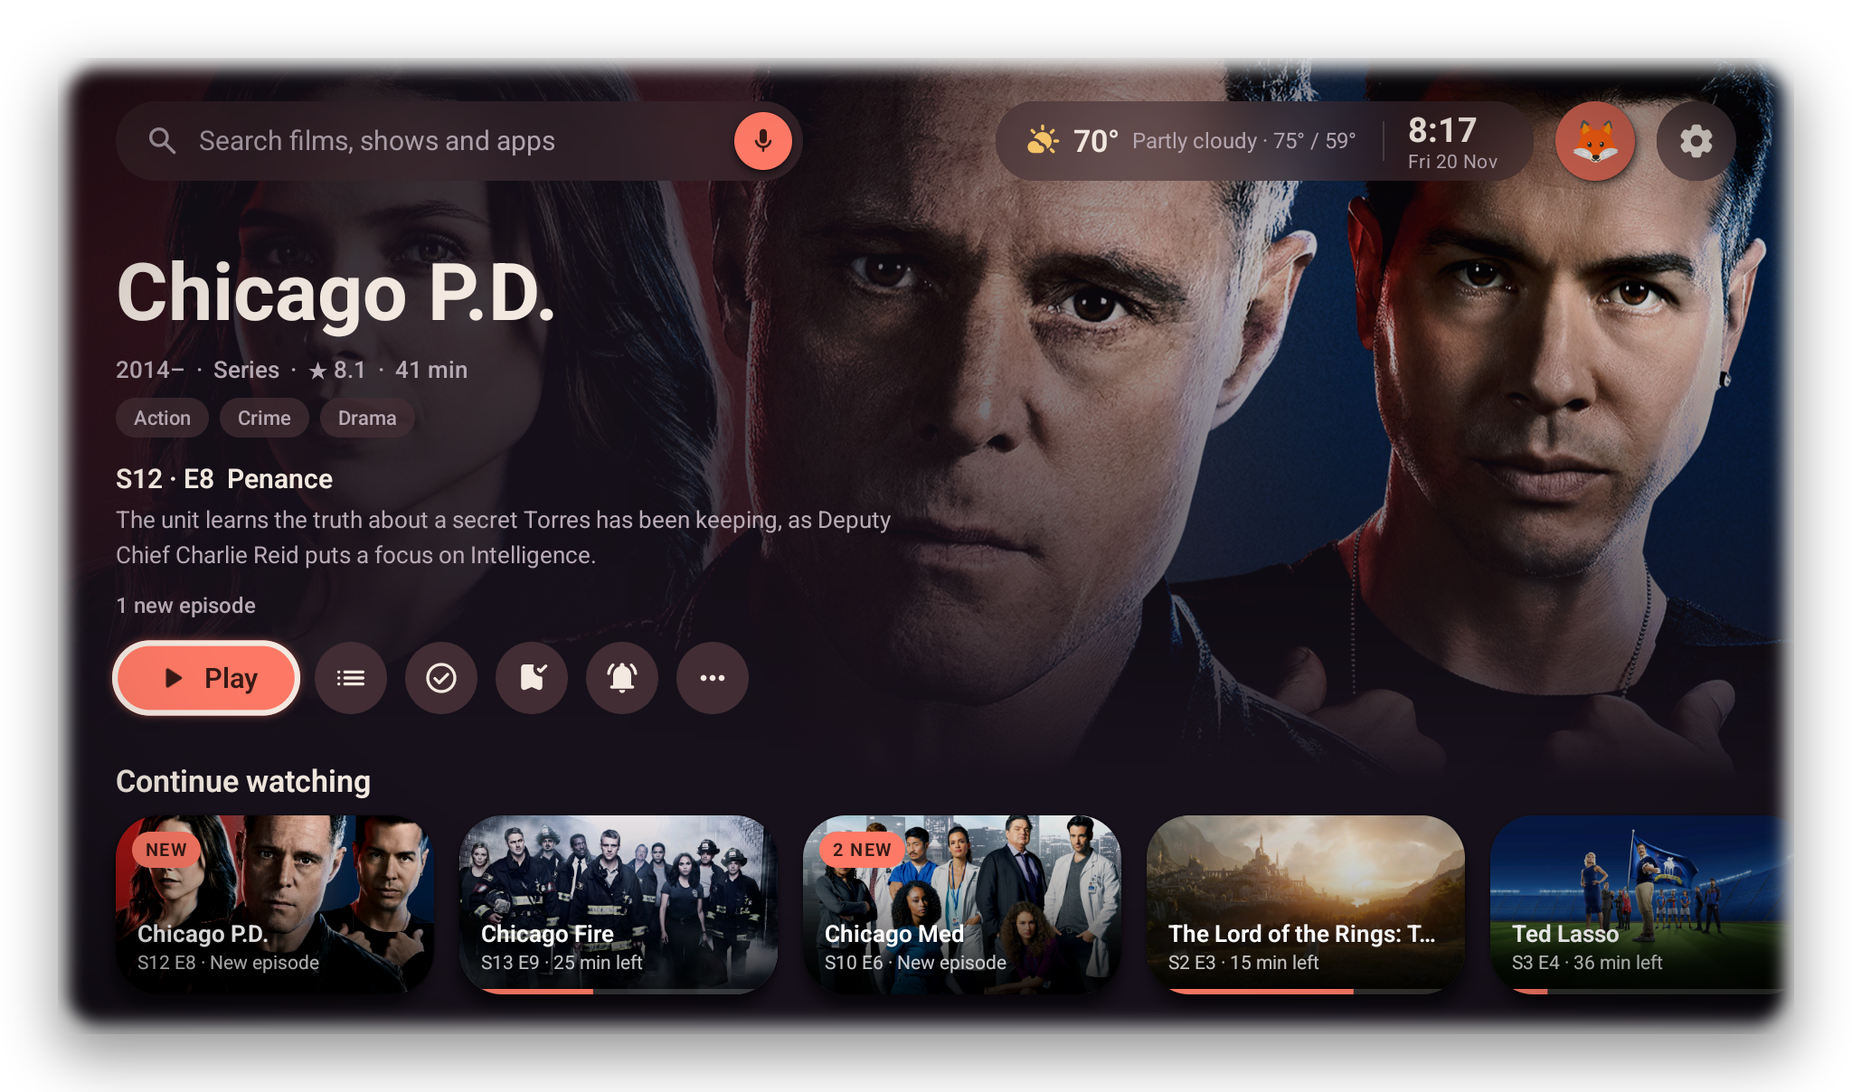
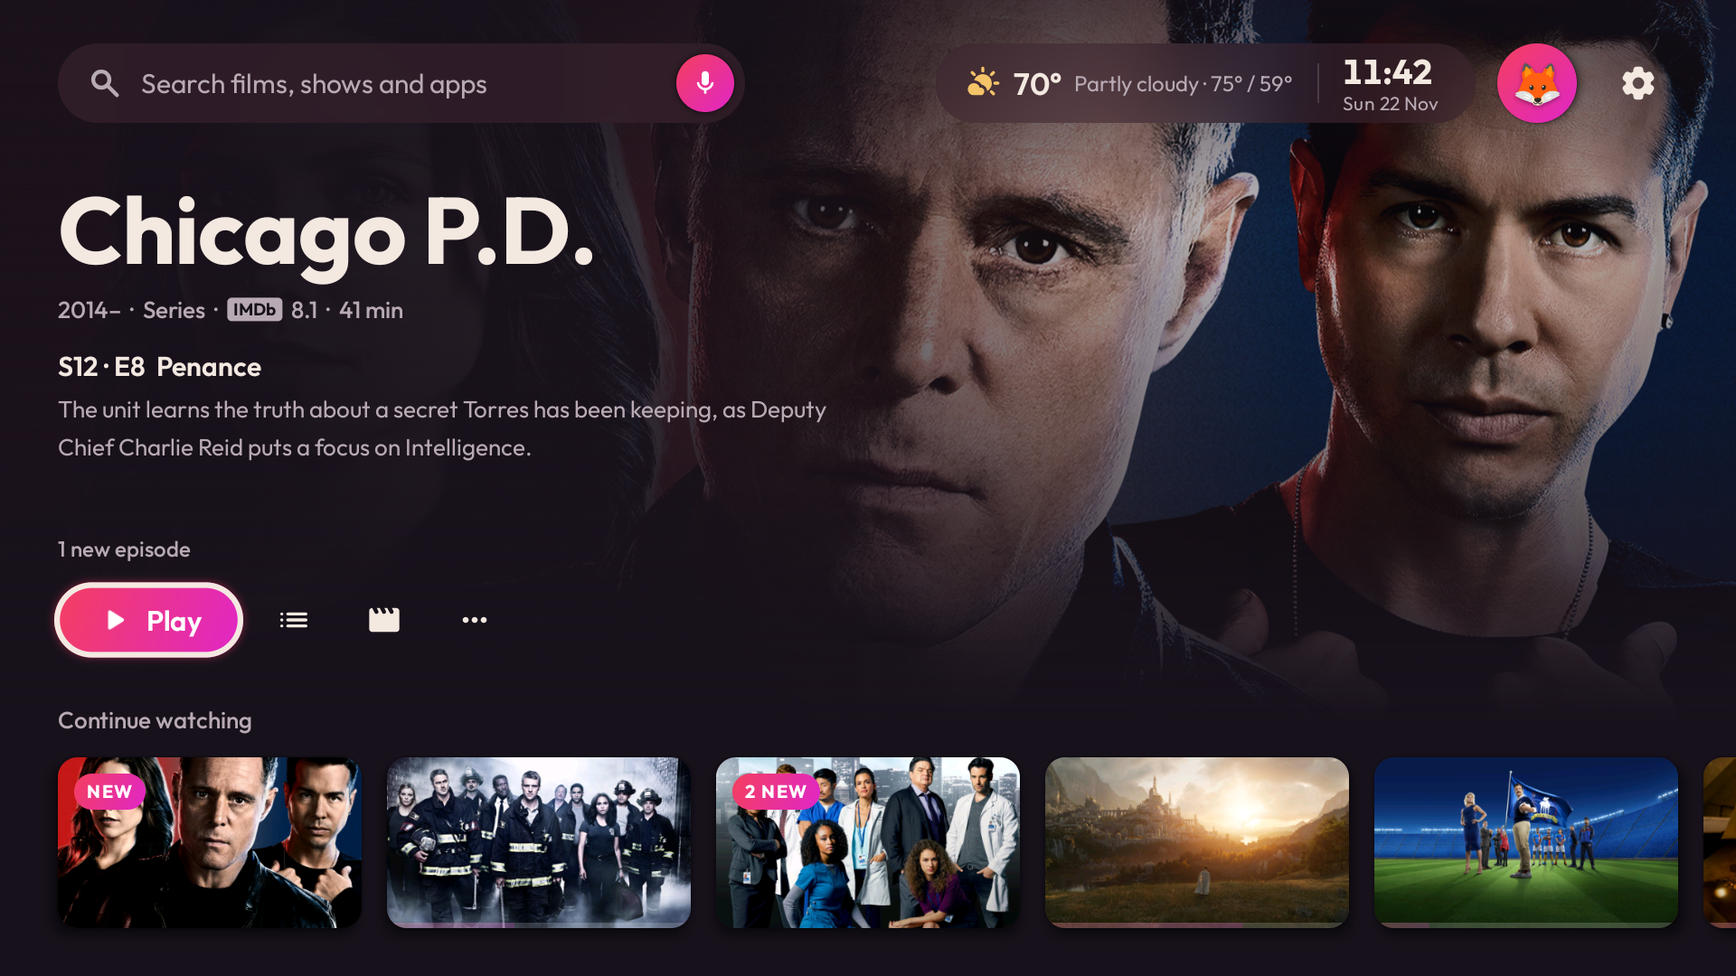
Update README and screenshots for 0.2.0, improve Demo Mode
- New README screenshots of Home, the library, search, profiles, Watch With,
  App Rows, Updates, the quick panel and setup, plus sections on Jellyfin
  and Plex, Kids profiles, Now Playing, App Rows and in-app updates.
- Demo Mode shows a sample library, treats the watch app as installed,
  hides phone apps and sorts sample apps into the ready-made rows.
- The Library screen no longer takes focus itself, which greyed it out
  and stranded the arrow keys when opened from See all with OK.

diff --git a/app/src/main/java/com/robbydock/scene/Demo.kt b/app/src/main/java/com/robbydock/scene/Demo.kt
@@ -18,16 +18,24 @@ object Demo {
 
     fun isSample(pkg: String) = pkg.startsWith(PREFIX)
 
+    /** Installed apps Demo Mode keeps. Phone apps such as Dialer or Camera would look wrong on a TV. */
+    private val realApps = setOf(
+        Config.STREMIO, "com.stremio.tv.boot", "org.jellyfin.androidtv", "com.plexapp.android",
+        "com.google.android.youtube.tv", "com.google.android.youtube", "com.android.vending",
+    )
+
+    fun keepsReal(pkg: String) = pkg in realApps
+
     fun start() { on = true }
     fun stop() { on = false }
 
-    private class SampleApp(val name: String, val icon: Int, val color: Int)
+    private class SampleApp(val name: String, val icon: Int, val color: Int, val row: String = "watch")
 
     private val sampleApps = listOf(
         SampleApp("Netflix", R.drawable.ic_movie, 0xFFE5484D.toInt()),
         SampleApp("ESPN", R.drawable.ic_star, 0xFF2E7DF6.toInt()),
         SampleApp("CNN", R.drawable.ic_language, 0xFF3A4A5E.toInt()),
-        SampleApp("Spotify", R.drawable.ic_volume_up, 0xFFE0408A.toInt()),
+        SampleApp("Spotify", R.drawable.ic_volume_up, 0xFFE0408A.toInt(), "listen"),
         SampleApp("Crunchyroll", R.drawable.ic_mic, 0xFF8E4EC6.toInt()),
         SampleApp("Plex", R.drawable.ic_wallpaper, 0xFF12A594.toInt()),
         SampleApp("Disney+", R.drawable.ic_child_care, 0xFFF5A623.toInt()),
@@ -39,6 +47,9 @@ object Demo {
         SampleApp("Paramount+", R.drawable.ic_bedtime, 0xFF34407A.toInt()),
         SampleApp("Tubi", R.drawable.ic_visibility, 0xFF46505A.toInt()),
     )
+
+    /** The ready-made row a sample app belongs in. */
+    fun row(pkg: String): String = sampleApps.getOrNull(pkg.removePrefix(PREFIX).toIntOrNull() ?: -1)?.row ?: ""
 
     /** Icon from files/demo-icons/<name>.png when present, for example "primevideo.png". */
     private fun iconFile(ctx: Context, name: String, size: Int): Bitmap? {
@@ -74,11 +85,12 @@ object Demo {
         return out
     }
 
-    fun profiles(): List<Profile> = listOf(
-        Profile("p0", "Alex", 0).apply { emoji = "🦊"; admin = true },
+    /** Sample profiles. The viewer's own profile comes first, so Demo Mode keeps their name and colour. */
+    fun profiles(me: Profile): List<Profile> = listOf(
+        Profile("p0", me.name, me.color).apply { emoji = me.emoji; admin = true },
         Profile("p1", "Sam", 9).apply { emoji = "🐼" },
         Profile("p2", "Jordan", 11).apply { emoji = "🎮" },
-        Profile("p3", "Kids", 4).apply { emoji = "🦄" },
+        Profile("p3", "Kids", 4).apply { emoji = "🦄"; kids = true },
     )
 
     /** Mild and clear, in Celsius. */
@@ -111,6 +123,52 @@ object Demo {
             series("tt2467372", "Brooklyn Nine-Nine", 5, 14, 9 * 24 * HOUR, 0.12f),
             series("tt4236770", "Yellowstone", 3, 7, 10 * 24 * HOUR, 0.7f),
         )
+    }
+
+    /** Sample library, newest added first. */
+    private val library: List<SearchHit> by lazy {
+        val now = System.currentTimeMillis()
+        val day = 24 * HOUR
+        fun hit(i: Int, id: String, type: String, name: String, year: String, watched: Boolean = false, progress: Float = 0f) =
+            SearchHit(id, type, name, poster(id), year, watched, progress, now - i * 2 * day)
+        var i = 0
+        listOf(
+            hit(i++, "tt11280740", "series", "Severance", "2022–"),
+            hit(i++, "tt15398776", "movie", "Oppenheimer", "2023", progress = 0.35f),
+            hit(i++, "tt14452776", "series", "The Bear", "2022–"),
+            hit(i++, "tt9362722", "movie", "Spider-Man: Across the Spider-Verse", "2023", watched = true),
+            hit(i++, "tt3581920", "series", "The Last of Us", "2023–"),
+            hit(i++, "tt15239678", "movie", "Dune: Part Two", "2024", progress = 0.25f),
+            hit(i++, "tt5875444", "series", "Slow Horses", "2022–"),
+            hit(i++, "tt6710474", "movie", "Everything Everywhere All at Once", "2022", watched = true),
+            hit(i++, "tt10986410", "series", "Ted Lasso", "2020–2023"),
+            hit(i++, "tt1745960", "movie", "Top Gun: Maverick", "2022", progress = 0.55f),
+            hit(i++, "tt7660850", "series", "Succession", "2018–2023", watched = true),
+            hit(i++, "tt1160419", "movie", "Dune", "2021", watched = true),
+            hit(i++, "tt7366338", "series", "Chernobyl", "2019", watched = true),
+            hit(i++, "tt6751668", "movie", "Parasite", "2019", watched = true),
+            hit(i++, "tt4574334", "series", "Stranger Things", "2016–"),
+            hit(i++, "tt1392190", "movie", "Mad Max: Fury Road", "2015"),
+            hit(i++, "tt0816692", "movie", "Interstellar", "2014", watched = true),
+            hit(i++, "tt0944947", "series", "Game of Thrones", "2011–2019"),
+            hit(i++, "tt1375666", "movie", "Inception", "2010", watched = true),
+            hit(i++, "tt0903747", "series", "Breaking Bad", "2008–2013", watched = true),
+            hit(i++, "tt0468569", "movie", "The Dark Knight", "2008"),
+            hit(i++, "tt0386676", "series", "The Office", "2005–2013"),
+            hit(i++, "tt0133093", "movie", "The Matrix", "1999", watched = true),
+            hit(i++, "tt0110912", "movie", "Pulp Fiction", "1994"),
+        )
+    }
+
+    /** Library titles on [key], like Stremio's saved titles: 0 recently added, 1 A to Z. */
+    fun shelf(key: String, sort: Int, start: Int, count: Int): List<SearchHit> {
+        var list = when (key) {
+            "films" -> library.filter { it.type == "movie" }
+            "series" -> library.filter { it.type == "series" }
+            else -> library
+        }
+        if (sort == 1) list = list.sortedBy { it.name.lowercase().removePrefix("the ") }
+        return list.drop(start).take(count)
     }
 
     private fun poster(id: String) = "https://images.metahub.space/poster/medium/$id/img"

diff --git a/app/src/main/java/com/robbydock/scene/HomeActivity.kt b/app/src/main/java/com/robbydock/scene/HomeActivity.kt
@@ -491,16 +491,17 @@ class HomeActivity : Activity() {
         if (Demo.on) return
         realCfg = cfg
         Demo.start()
-        Profiles.startDemo(Demo.profiles())
+        Profiles.startDemo(Demo.profiles(Profiles.current))
         val pm = packageManager
         cfg = cfg.copy().apply {
             pinned = Demo.pins { Apps.isInstalled(pm, it) }
             accent = Profiles.current.color
-            hidden.clear(); hidden.add(Config.STREMIO_BOOT); cwHidden.clear(); names.clear(); recents.clear(); appOrder.clear()
+            hidden.clear(); hidden.add(Config.STREMIO_BOOT); cwHidden.clear(); names.clear(); recents.clear(); appOrder.clear(); libraryOff.clear(); libraryHome = -1
             showPinned = true; showRecent = false; spotlight = true; clockOn = true; showDate = true; weatherOn = true; weatherDetail = 0
             city = "Chicago"
         }
         weather = Demo.weather()
+        Library.clear()
         setContinue(Demo.continueItems())
         applyNames()
         themeChanged()
@@ -516,6 +517,7 @@ class HomeActivity : Activity() {
         Profiles.endDemo()
         cfg = realCfg ?: Store.load(this) ?: cfg
         realCfg = null
+        Library.clear()
         weather = Weather.cached(this)
         setContinue(Watch.cachedContinue(this, online))
         applyNames()
@@ -547,7 +549,7 @@ class HomeActivity : Activity() {
 
     /** Applies this profile's custom names, keeping A to Z order by the name shown. */
     private fun applyNames() {
-        val base = if (Demo.on) systemApps + Demo.apps(this, Theme.ipx(176f)) else systemApps
+        val base = if (Demo.on) systemApps.filter { Demo.keepsReal(it.pkg) } + Demo.apps(this, Theme.ipx(176f)) else systemApps
         apps = base.map { e -> cfg.names[e.pkg]?.let { AppEntry(e.pkg, it, e.icon, e.installed) } ?: e }
             .sortedBy { it.label.lowercase() }
     }

diff --git a/app/src/main/java/com/robbydock/scene/Watch.kt b/app/src/main/java/com/robbydock/scene/Watch.kt
@@ -88,7 +88,8 @@ object Watch {
 
     fun name(ctx: Context) = source(ctx).label
     fun isStremio(ctx: Context) = source(ctx) == Source.STREMIO
-    fun appInstalled(ctx: Context) = Apps.isInstalled(ctx.packageManager, source(ctx).pkg)
+    /** Demo Mode shows the full spotlight, as if the app were installed. */
+    fun appInstalled(ctx: Context) = Demo.on || Apps.isInstalled(ctx.packageManager, source(ctx).pkg)
 
     /**
      * Makes [to] the app Scene watches with, and signs out of the others. Called once [to] is
@@ -231,7 +232,7 @@ object Watch {
         if (isStremio(ctx)) listOf("Recently added", "A to Z") else listOf("Recently added", "A to Z", "Release year", "Unwatched")
 
     /** Titles on [key], sorted by [sort] (an index into [sorts]), from [start]. */
-    fun shelf(ctx: Context, key: String, sort: Int, start: Int, count: Int): List<SearchHit> = when (source(ctx)) {
+    fun shelf(ctx: Context, key: String, sort: Int, start: Int, count: Int): List<SearchHit> = if (Demo.on) Demo.shelf(key, sort, start, count) else when (source(ctx)) {
         Source.STREMIO -> { Stremio.loadSaved(ctx); Stremio.saved(key, sort, start, count) }
         Source.JELLYFIN -> Jellyfin.shelf(ctx, key, sort, start, count)
         Source.PLEX -> Plex.shelf(ctx, key, sort, start, count)

diff --git a/app/src/main/java/com/robbydock/scene/Library.kt b/app/src/main/java/com/robbydock/scene/Library.kt
@@ -31,7 +31,7 @@ object Library {
 
     /** The rows Home shows now. */
     fun shown(act: HomeActivity): List<Shelf> =
-        if (!act.spotlightOn || !onHome(act) || !Watch.signedIn(act) || Demo.on) emptyList()
+        if (!act.spotlightOn || !onHome(act) || !Watch.signedIn(act)) emptyList()
         else Watch.shelves(act).filter { it.key !in act.cfg.libraryOff }
 
     fun cached(key: String): List<SearchHit>? = rows[key]
@@ -145,6 +145,8 @@ class LibraryScreen(act: HomeActivity, private var tab: Int = 0) : OverlayBase(a
     }
 
     init {
+        // Only the pills and posters take focus. Focus on the screen itself greys it out and strands the arrows.
+        isFocusable = false
         // The grid goes in first and is clipped to its own area, so posters scroll under the header, never over it.
         scroller.addView(grid, LayoutParams(-1, -2))
         place(act.clipBox(scroller), 0f, 0f, Theme.W, Theme.H)

diff --git a/app/src/main/java/com/robbydock/scene/AppControl.kt b/app/src/main/java/com/robbydock/scene/AppControl.kt
@@ -90,6 +90,7 @@ object AppCategory {
 
     /** The row an app belongs in, or "" for none. */
     fun of(ctx: android.content.Context, pkg: String): String = cache.getOrPut(pkg) {
+        if (Demo.isSample(pkg)) return@getOrPut Demo.row(pkg)
         KNOWN[pkg] ?: try {
             val info = ctx.packageManager.getApplicationInfo(pkg, 0)
             val cat = info.category

diff --git a/README.md b/README.md
@@ -13,7 +13,7 @@
 > [!WARNING]
 > **Scene is in alpha.** It works day to day on the device it was built on, but expect rough edges, missing polish and changes between releases. Keep a backup of your settings and [report anything that breaks](../../issues).
 
-Most stock Android TV and Google TV launchers are heavy, slow on budget hardware and full of ads and recommendations you never asked for. Scene is a home screen for **Stremio users**. It puts what you are watching in Stremio front and centre, keeps your other apps one row below, and does nothing at all when you are not looking at it.
+Most stock Android TV and Google TV launchers are heavy, slow on budget hardware and full of ads and recommendations you never asked for. Scene is a home screen for **Stremio users**, with experimental support for Jellyfin and Plex. It puts what you are watching front and centre, keeps your other apps one row below, and does nothing at all when you are not looking at it.
 
 ## 🍿 Built around Stremio
 
@@ -29,32 +29,57 @@ Sign in once by scanning a code with your phone, and Home becomes your Stremio l
 
 Scene uses Stremio's own account and library, so whatever you do in Stremio shows up on Home, and the other way round.
 
+### Jellyfin and Plex (experimental)
+
+Prefer your own server? In **Settings → Watch With**, pick Jellyfin or Plex instead. Jellyfin signs in with Quick Connect and Plex with a code at plex.tv/link. Continue watching, the spotlight, search and your library then come from your server. Only one app feeds Home at a time, and Stremio stays the recommended choice.
+
 ## ✨ What it does
 
 | | Feature | Details |
 |---|---|---|
-| 📺 | **Apps** | Pinned or recent apps under the spotlight, plus an All apps grid. Pin, rename, move, sort and hide anything. |
+| 📺 | **Apps** | Pinned or recent apps under the spotlight, plus an All apps grid. Long rows show two lines and a See all tile. Pin, rename, move, sort and hide anything. |
+| 🗂 | **App Rows** | Make your own rows, or turn on ready-made Watch, Listen, Games and Tools rows that fill themselves. |
+| 📚 | **Your Library** | Rows from your library on Home, and a full library screen with films, series and sorting. |
 | 🔎 | **Search** | Films, series, apps and settings in one place, with voice search. |
 | 👥 | **Profiles** | Up to 8 profiles, each with its own Home, accent and picture. Optional D-pad passcodes, admin and standard roles, and a recovery code. |
+| 🧸 | **Kids profiles** | No Spotlight and no Settings. Every other profile needs a passcode first, so nobody gets stuck or slips out. |
+| 🎵 | **Now Playing** | What's playing on Home, with synced lyrics and a visualizer, and a music screensaver while it plays. |
 | ⚡ | **Quick panel** | Network, Bluetooth, volume, display, screensaver and accessibility, one press away. |
 | 🎨 | **Make it yours** | 21 accent colours, True Dark, adjustable glass, motion levels and optional sounds. |
-| 🌤 | **Clock and weather** | 12 or 24 hour clock, with weather for where you are or a city you pick. |
-| 🌙 | **Screensaver** | An ambient artwork screensaver or a simple clock. |
+| 🌤 | **Clock and weather** | 12 or 24 hour clock, Celsius or Fahrenheit, and a forecast for where you are or a city you pick. |
+| 🌙 | **Screensaver** | An ambient artwork screensaver, a music screensaver or a simple clock. |
+| 🔄 | **Updates** | Checks GitHub once a day while Home is open, and installs a new version only if it is signed with the same key. |
 | 💾 | **Backup** | Export each profile's settings to one file and restore it later. |
 
 ## 📱 Screenshots
 
 <p align="center">
-  <img src=".github/assets/screens/02-continue-chicago-pd.png" width="49%" alt="Continue watching with the spotlight on a series" />
-  <img src=".github/assets/screens/11-home-all-apps-grid.png" width="49%" alt="All apps grid" />
+  <img src=".github/assets/screens/02-continue-watching.png" width="49%" alt="Continue watching with the spotlight on a series" />
+  <img src=".github/assets/screens/03-home-apps.png" width="49%" alt="Pinned apps and All apps on Home" />
 </p>
 <p align="center">
-  <img src=".github/assets/screens/18-search-results.png" width="49%" alt="Search across films, series and apps" />
-  <img src=".github/assets/screens/14-quick-panel.png" width="49%" alt="Quick panel" />
+  <img src=".github/assets/screens/04-app-menu.png" width="49%" alt="App menu with rename, move, pin and lock" />
+  <img src=".github/assets/screens/05-search.png" width="49%" alt="Search across films, series and apps" />
 </p>
 <p align="center">
-  <img src=".github/assets/screens/15-profile-picker.png" width="49%" alt="Profile picker" />
-  <img src=".github/assets/screens/20-settings-accent.png" width="49%" alt="Accent colours in Settings" />
+  <img src=".github/assets/screens/14-home-library.png" width="49%" alt="Your library row on Home" />
+  <img src=".github/assets/screens/15-library.png" width="49%" alt="Library screen with films and series" />
+</p>
+<p align="center">
+  <img src=".github/assets/screens/06-profile-picker.png" width="49%" alt="Profile picker with a Kids profile" />
+  <img src=".github/assets/screens/10-settings-profiles.png" width="49%" alt="Profiles in Settings" />
+</p>
+<p align="center">
+  <img src=".github/assets/screens/08-watch-with.png" width="49%" alt="Choosing Stremio, Jellyfin or Plex" />
+  <img src=".github/assets/screens/09-app-rows.png" width="49%" alt="App Rows in Settings" />
+</p>
+<p align="center">
+  <img src=".github/assets/screens/07-settings-accent.png" width="49%" alt="Accent colours in Settings" />
+  <img src=".github/assets/screens/11-updates.png" width="49%" alt="Updates in Settings" />
+</p>
+<p align="center">
+  <img src=".github/assets/screens/12-quick-panel.png" width="49%" alt="Quick panel" />
+  <img src=".github/assets/screens/13-setup.png" width="49%" alt="Setup with a live preview of each choice" />
 </p>
 
 ## 🚀 Get started
@@ -62,7 +87,8 @@ Scene uses Stremio's own account and library, so whatever you do in Stremio show
 1. **Download.** Open the [latest release](../../releases/latest) and download `Scene-<version>.apk`.
 2. **Install.** Sideload it with a file manager on the TV, or from a computer with `adb install -r Scene-<version>.apk`.
 3. **Make it Home.** Press the Home button and pick Scene. If your device does not ask, see [Setting Scene as Home](#-setting-scene-as-home).
-4. **Connect Stremio, if you use it.** Open **Settings → Stremio** and scan the code with your phone. Continue watching fills in straight away.
+4. **Connect your watch app.** Setup offers to sign in to Stremio with your phone. To use Jellyfin or Plex instead, open **Settings → Watch With**. Continue watching fills in straight away.
+5. **Later updates.** Scene shows a dot on the settings button when a new version is out. Install it from **Settings → Updates**.
 
 ## 📋 Requirements
 
@@ -74,20 +100,21 @@ Scene uses Stremio's own account and library, so whatever you do in Stremio show
 | **Processor** | 32-bit or 64-bit ARM, or x86. No native code | 4-core 32-bit ARM |
 | **Display** | 720p | 1080p UI on a 4K output |
 | **Remote** | D-pad with OK, Back and Home | onn voice remote |
-| **Network** | Optional. Needed for Stremio, artwork and weather | Wi-Fi |
-| **Storage** | About 250 KB for the APK | |
+| **Network** | Optional. Needed for your watch app, artwork, weather and updates | Wi-Fi |
+| **Storage** | About 450 KB for the APK | |
 
-Scene targets API 36 and is built against API 37. Stremio is optional, and voice search needs a remote or device with a microphone.
+Scene targets API 36 and is built against API 37. Stremio, Jellyfin and Plex are optional, and voice search needs a remote or device with a microphone.
 
 A few extras need a newer Android. On 8.0 and 8.1 focus glows are not tinted. On Android 10 and older, local weather uses the device's last known location, so picking a city is more reliable there, and the search screen does not make room for the on-screen keyboard.
 
 ## 🔒 Privacy
 
 - **No ads, no analytics, no accounts.** Scene has no server of its own and sends nothing about you anywhere.
-- **Direct connections only.** Scene talks to Stremio for your library, Cinemeta for artwork and details, and Open-Meteo for weather. Nothing else.
-- **Nothing in the background.** No services, no scheduled jobs. Scene does its work while it is on screen and stops when it is not.
-- **Permissions on demand.** The microphone is asked for only when you use voice search, and location only if you choose local weather.
-- **Backups stay clean.** Exported files never contain passcodes, recovery codes or your Stremio sign-in.
+- **Direct connections only.** Scene talks to your watch app (Stremio and Cinemeta, your Jellyfin server, or Plex), Open-Meteo for weather, LRCLIB for lyrics and GitHub for update checks. Nothing else.
+- **Nothing in the background.** No services, no scheduled jobs. Scene does its work while it is on screen and stops when it is not. The daily update check runs only while Home is open, and you can turn it off.
+- **Permissions on demand.** The microphone is asked for only when you use voice search, location only if you choose local weather, and notification access only if you turn on Now Playing.
+- **Sign-ins stay on the TV.** Stremio, Jellyfin and Plex sign-ins are encrypted with the Android Keystore.
+- **Backups stay clean.** Exported files never contain passcodes, recovery codes or your sign-ins.
 
 ## 🏠 Setting Scene as Home
 
@@ -134,7 +161,7 @@ Yes. Scene is free and open source, with no ads or in-app purchases. If you want
 
 <br>
 
-Scene is made for Stremio users, and Stremio is where it shines. It still works without it as a clean app launcher with search, profiles and a quick panel, but you lose Continue watching, the spotlight and title search.
+Scene is made for Stremio users, and Stremio is where it shines. Jellyfin and Plex work too, as an experimental choice. Without any of them Scene is still a clean app launcher with search, profiles and a quick panel, but you lose Continue watching, the spotlight and title search.
 
 </details>
 
@@ -144,6 +171,15 @@ Scene is made for Stremio users, and Stremio is where it shines. It still works 
 <br>
 
 Yes. The remote's mic button still goes to the Google Assistant, and Scene's own search has a voice button of its own.
+
+</details>
+
+<details>
+<summary><b>How do Kids profiles work?</b></summary>
+
+<br>
+
+Make a profile Kids in **Settings → Profiles**. A Kids profile has no Spotlight and no Settings. To turn one on, every other profile needs a passcode and an admin enters theirs. To leave, enter the passcode of the profile you are switching to, or any admin's.
 
 </details>
 
@@ -169,7 +205,9 @@ adb shell am broadcast -a com.robbydock.scene.CLEAR_PASSCODES -n com.robbydock.s
 
 <br>
 
-Download the newest APK from [Releases](../../releases) and install it over the old one with `adb install -r`. Your profiles and settings stay in place.
+From 0.2.0 on, Scene checks for new releases by itself. When the settings button shows a dot, open **Settings → Updates** and install it. Android asks you to confirm, and Scene refuses any download that isn't signed like the copy you have.
+
+You can also download the newest APK from [Releases](../../releases) and install it over the old one with `adb install -r`. Your profiles and settings stay in place.
 
 </details>
 
